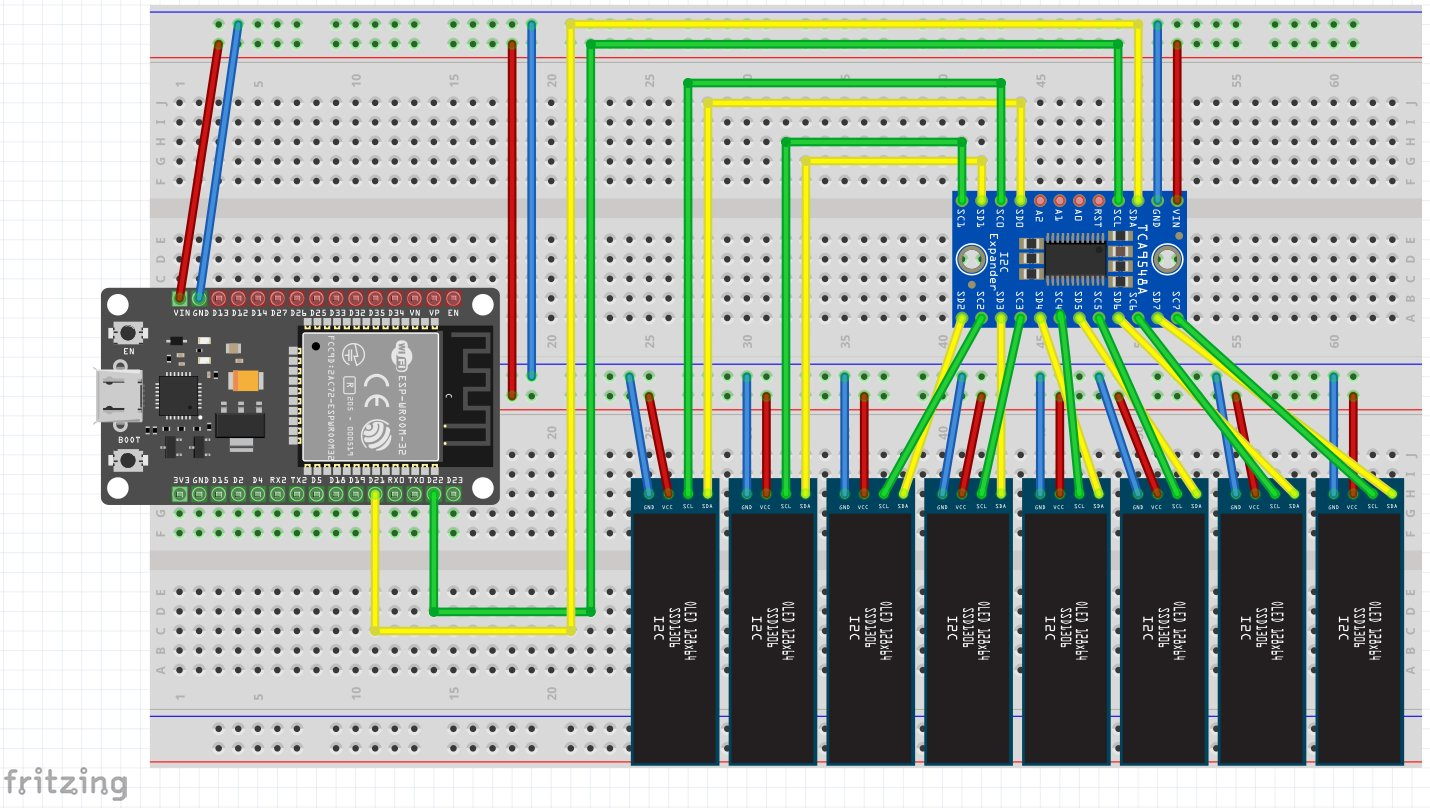
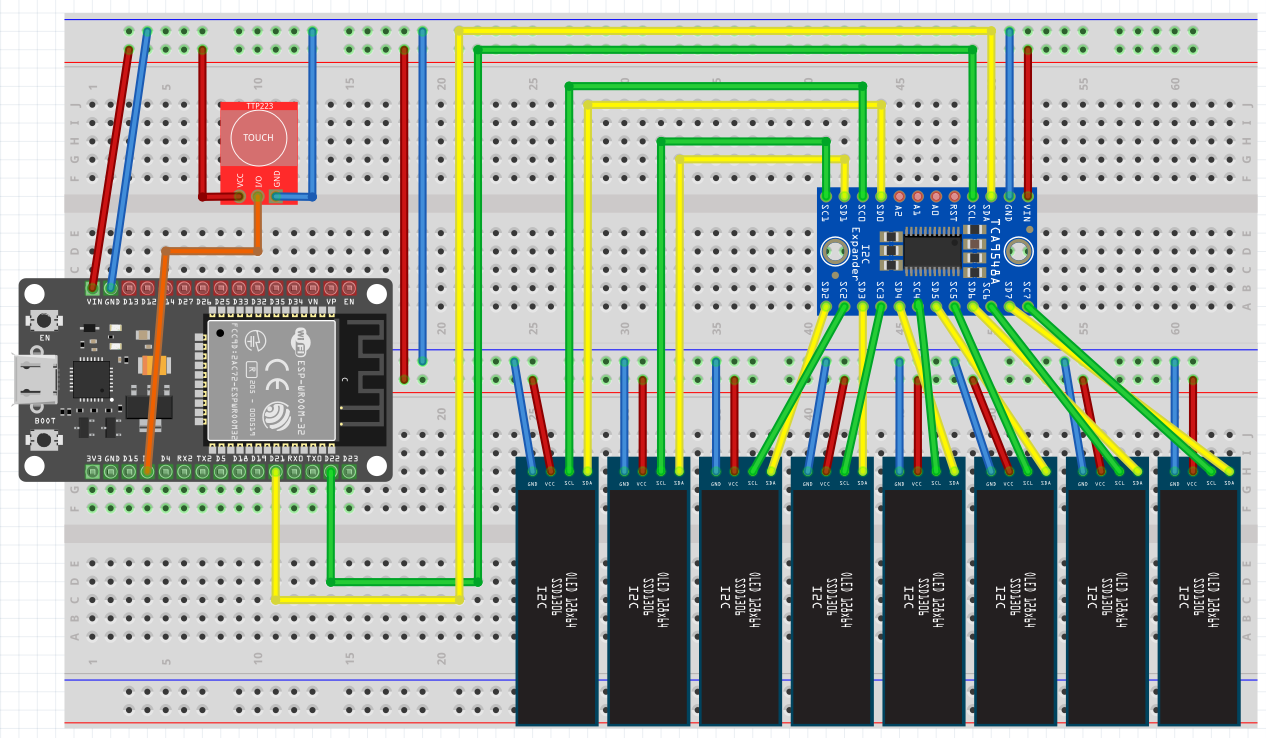
modified README.

diff --git a/README.md b/README.md
@@ -27,6 +27,10 @@
 * test tube
   * uxcell plastic test tube With cork stopper 20x153 mm
     * e.g. https://amazon.co.jp/dp/B09BF2LPJZ/
+* TTP223
+  * optional (for Divergence meter mode switch)
+  * KKHMF capacitive touch switch (Compatible)
+    * e.g. https://amazon.co.jp/dp/B079BKVT98/
 * screw
   * M3x8
   * Quantity: 8
@@ -45,6 +49,9 @@
 | VIN | TCA9548A | VIN |
 | D21 | TCA9548A | SDA |
 | D22 | TCA9548A | SCL |
+| GMD | TTP223 | GND |
+| 3V3 | TTP223 | VCC |
+| D2  | TTP223 | I/O |
   
 | SSD1306(N) pin	| device | pin |
 | ---- | ---- | ---- |
@@ -114,6 +121,8 @@ Turn the test tube and cut slowly and gently
     * If getting is successful, "SUCCESS" is displayed
 6. Time is displayed
     * Finished start up
+7. (optional) Divergence meter mode
+    * Touch the switch to enter divergence meter mode
 
 ## Tips
 * Standard time
@@ -123,3 +132,10 @@ Turn the test tube and cut slowly and gently
 * SSID 
   * When specifying the SSID explicitly, set ssid and password
   * OLIXIE.ino L18, L19 `ssid` and `password`
+* u8g2
+  * OLED SSD1306 may not support Adafruit library depending on manufacturer
+  * If u8g2 library is used, Activate definition
+    * OLIXIE.ino L8 #define USE_U8G2
+* boot loop
+  * If the logo display and WIFI display are repeated, the USB power is insufficient
+  * Use a USB power supply with sufficient power capacity
